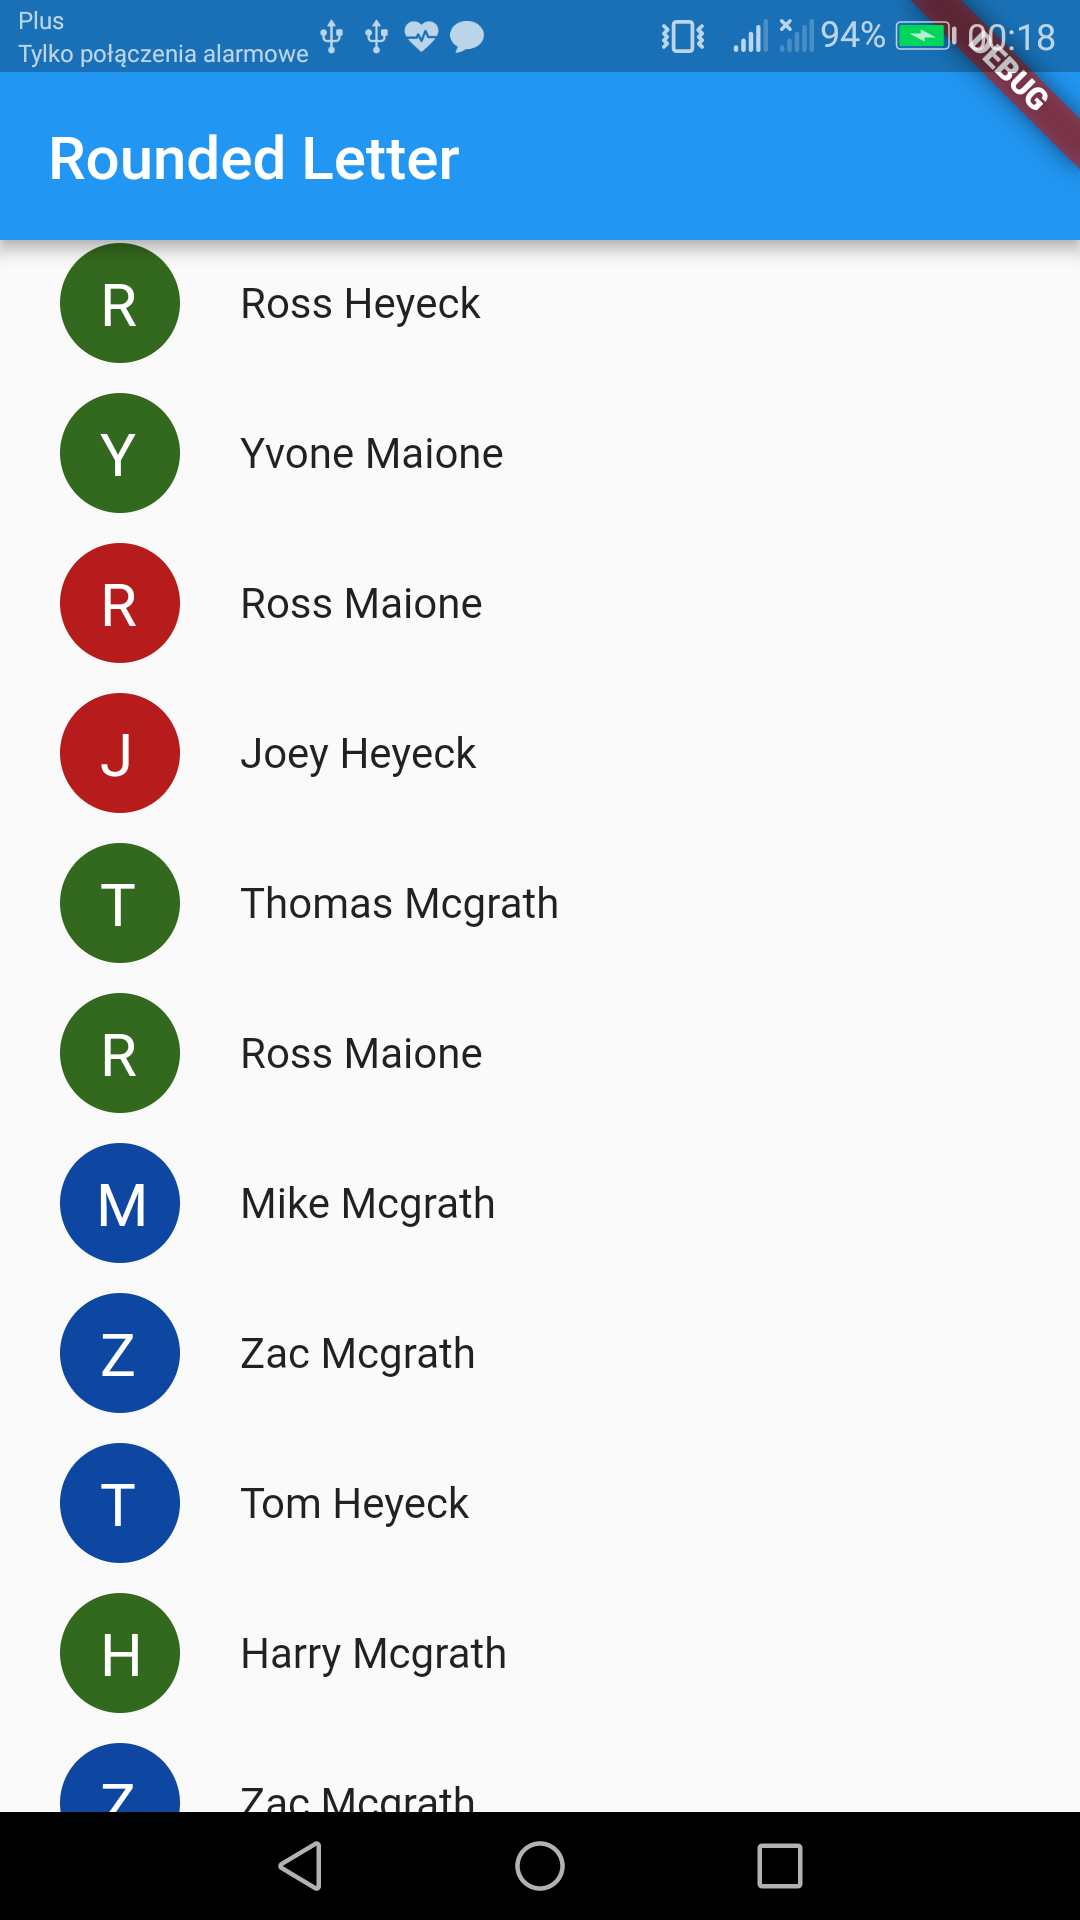
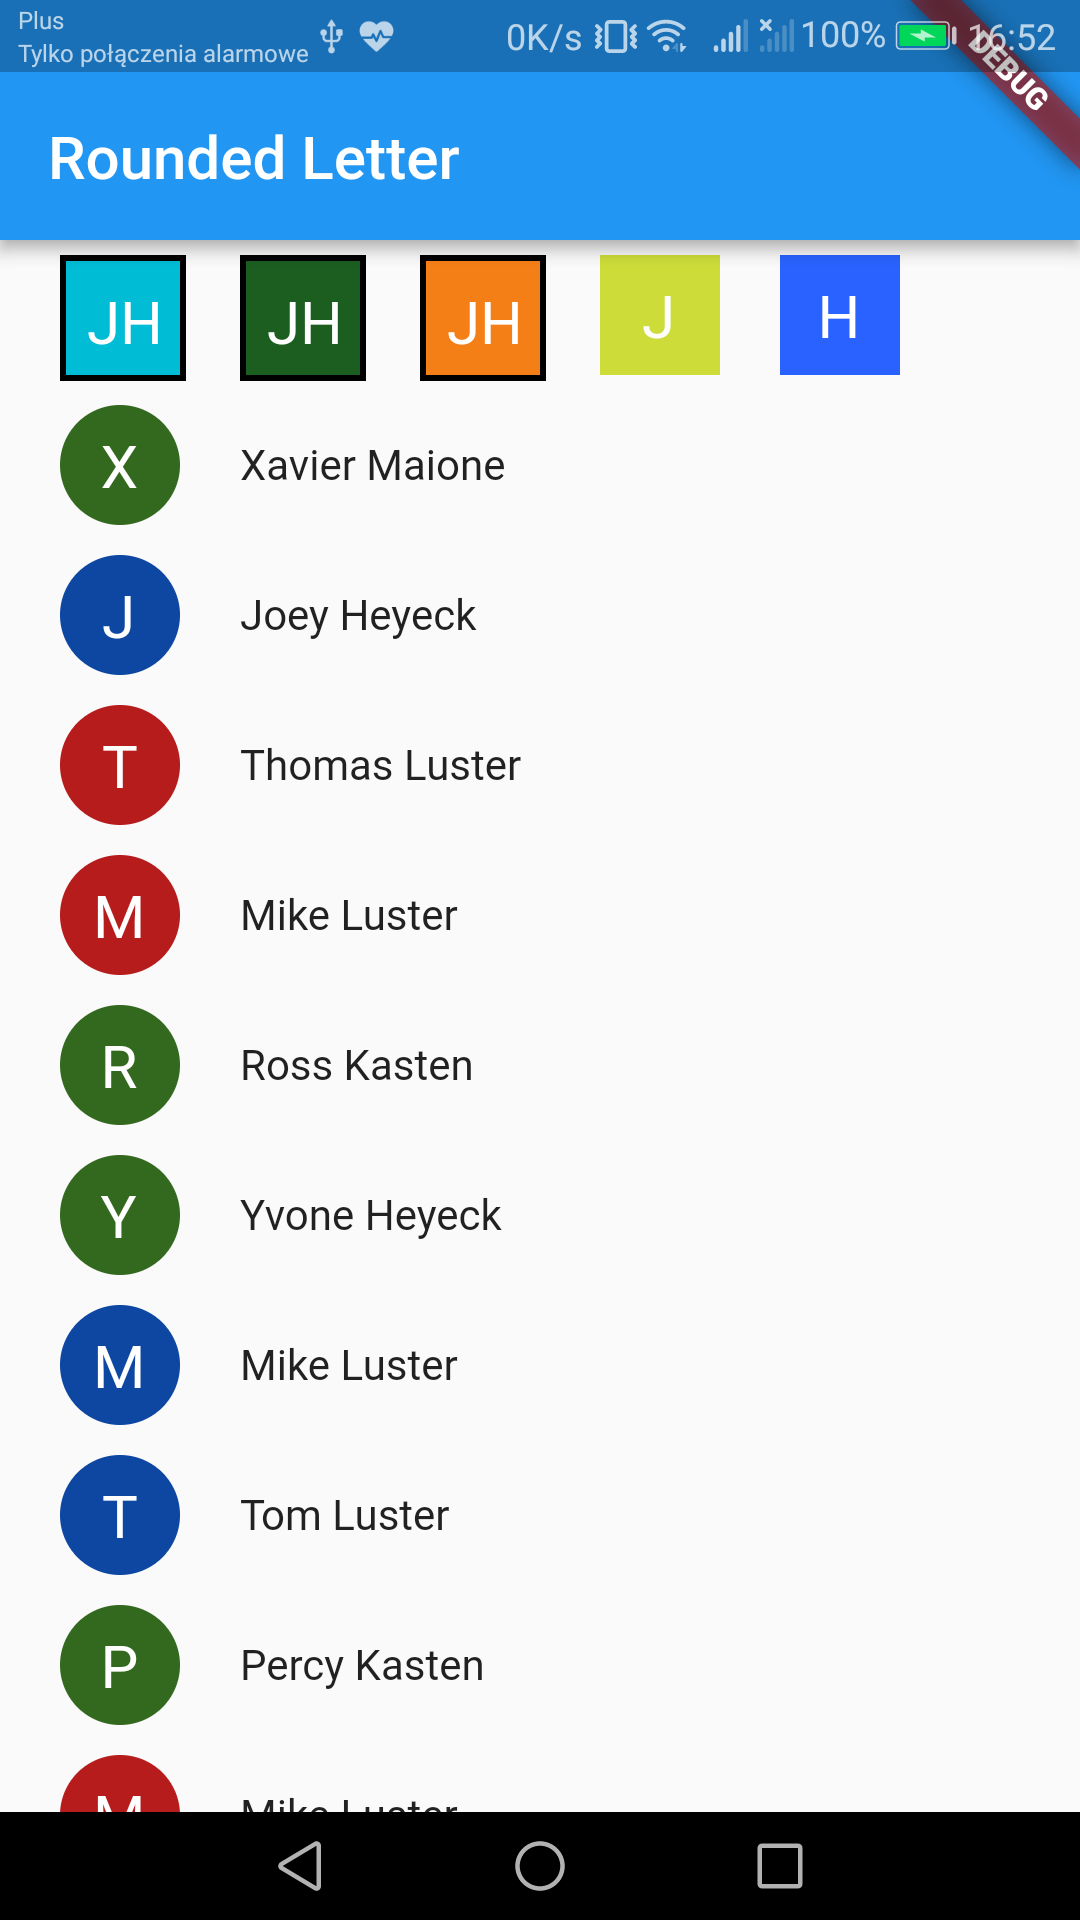
Updated example

diff --git a/example/lib/main.dart b/example/lib/main.dart
@@ -47,37 +47,59 @@ class _MyAppState extends State<MyApp> {
             appBar: AppBar(
               title: const Text('Rounded Letter'),
             ),
-            body: Container(child: getSimpleRoundedLetter())));
-  }
-
-  Widget getRectangleLetter() {
-    return RoundedLetter(
-      text: "JH",
-      shapeType: ShapeType.rectangle,
-      borderColor: Color.fromARGB(255, 0, 0, 0),
-      borderWidth: 2,
-    );
-  }
-
-  Widget getSimpleRoundedLetter() {
-    return RoundedLetter(text: "A");
-  }
-
-  Widget getRoundedLetterWithBorder() {
-    return RoundedLetter(
-        text: "B",
-        shapeSize: 80,
-        fontSize: 40,
-        borderWidth: 2,
-        borderColor: Color.fromARGB(255, 0, 0, 0));
+            body: Container(child: getListWithRoundedLetters())));
   }
 
   Widget getListWithRoundedLetters() {
     List<Widget> widgets = new List();
+    widgets.add(_getRowWithRectangles());
     for (var i = 0; i < 50; i++) {
       widgets.add(getRow());
     }
     return ListView(children: widgets);
+  }
+
+  Widget _getRowWithRectangles() {
+    return Container(
+        margin: new EdgeInsets.symmetric(vertical: 5.0),
+        child: Row(
+          children: <Widget>[
+            Padding(padding: EdgeInsets.fromLTRB(10, 10, 10, 0)),
+            RoundedLetter(
+              text: "JH",
+              shapeColor: Color.fromARGB(255, 0, 188, 212),
+              shapeType: ShapeType.rectangle,
+              borderColor: Color.fromARGB(255, 0, 0, 0),
+              borderWidth: 2,
+            ),
+            Padding(padding: EdgeInsets.fromLTRB(10, 10, 10, 0)),
+            RoundedLetter(
+              text: "JH",
+              shapeColor: Color.fromARGB(255, 27, 94, 32),
+              shapeType: ShapeType.rectangle,
+              borderColor: Color.fromARGB(255, 0, 0, 0),
+              borderWidth: 2,
+            ),
+            Padding(padding: EdgeInsets.fromLTRB(10, 10, 10, 0)),
+            RoundedLetter(
+              text: "JH",
+              shapeColor: Color.fromARGB(255, 245, 127, 23),
+              shapeType: ShapeType.rectangle,
+              borderColor: Color.fromARGB(255, 0, 0, 0),
+              borderWidth: 2,
+            ), Padding(padding: EdgeInsets.fromLTRB(10, 10, 10, 0)),
+            RoundedLetter(
+              text: "J",
+              shapeColor: Color.fromARGB(255, 205, 220, 57),
+              shapeType: ShapeType.rectangle,
+            ), Padding(padding: EdgeInsets.fromLTRB(10, 10, 10, 0)),
+            RoundedLetter(
+              text: "H",
+              shapeColor: Color.fromARGB(255, 41, 98, 255 ),
+              shapeType: ShapeType.rectangle,
+            )
+          ],
+        ));
   }
 
   Widget getRow() {
